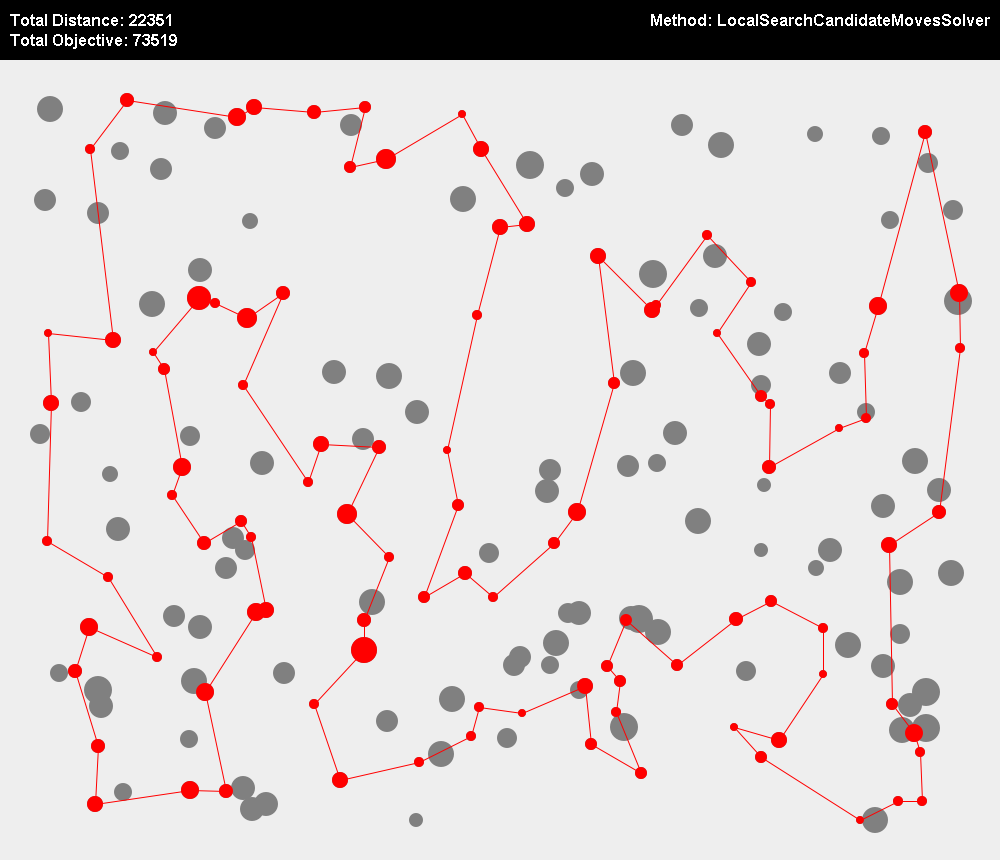
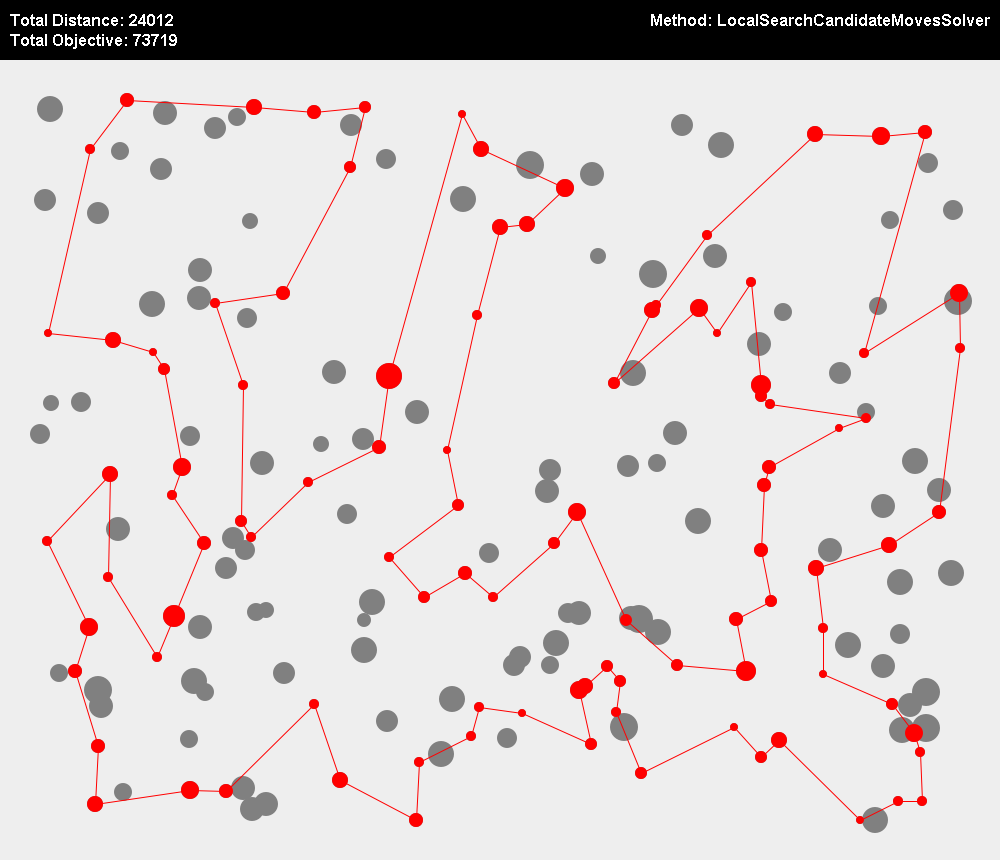
change NNs calculation

diff --git a/greedy heuristics/src/main/java/solver/LocalSearchCandidateMovesSolver.java b/greedy heuristics/src/main/java/solver/LocalSearchCandidateMovesSolver.java
@@ -10,6 +10,7 @@ import main.java.utils.CSVParser;
 public class LocalSearchCandidateMovesSolver extends LocalSearchSolver{
 
     private int candidateNeighborsCount;
+    private Map<Integer, int[]> nearestNeighborsCache = new HashMap<>();
     // Steepest LS
     // Edge Exchange Intra-Route Neighborhood
     // Random Initial Solution
@@ -28,6 +29,10 @@ public class LocalSearchCandidateMovesSolver extends LocalSearchSolver{
         );
         this.candidateNeighborsCount = candidateNeighborsCount;
         setMethodName("LocalSearchCandidateMovesSolver");
+
+        for (int i = 0; i < distanceMatrix.length; i++) {
+            nearestNeighborsCache.put(i, findNearestNeighbors(i));
+        }
     }
 
     public int[] findNearestNeighbors(int currID) {
@@ -86,7 +91,7 @@ public class LocalSearchCandidateMovesSolver extends LocalSearchSolver{
         List<Move> neighborhood = new ArrayList<>();
 
         for (int nodeID: selectedNodeIDs) {
-            int[] NNs = findNearestNeighbors(nodeID);
+            int[] NNs = nearestNeighborsCache.get(nodeID);
             int nodePos = positionMap.get(nodeID);
             int predNodeID = cycle[(nodePos - 1 + n) % n];
             int succNodeID = cycle[(nodePos + 1) % n];
